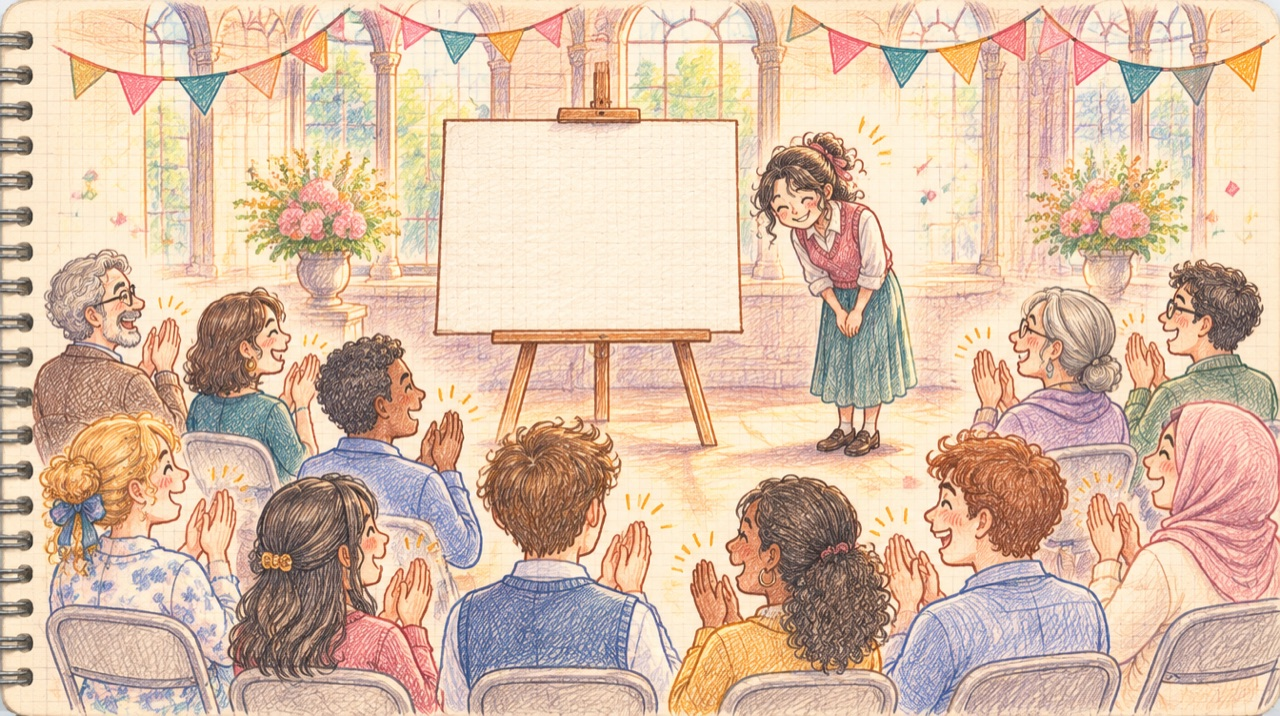
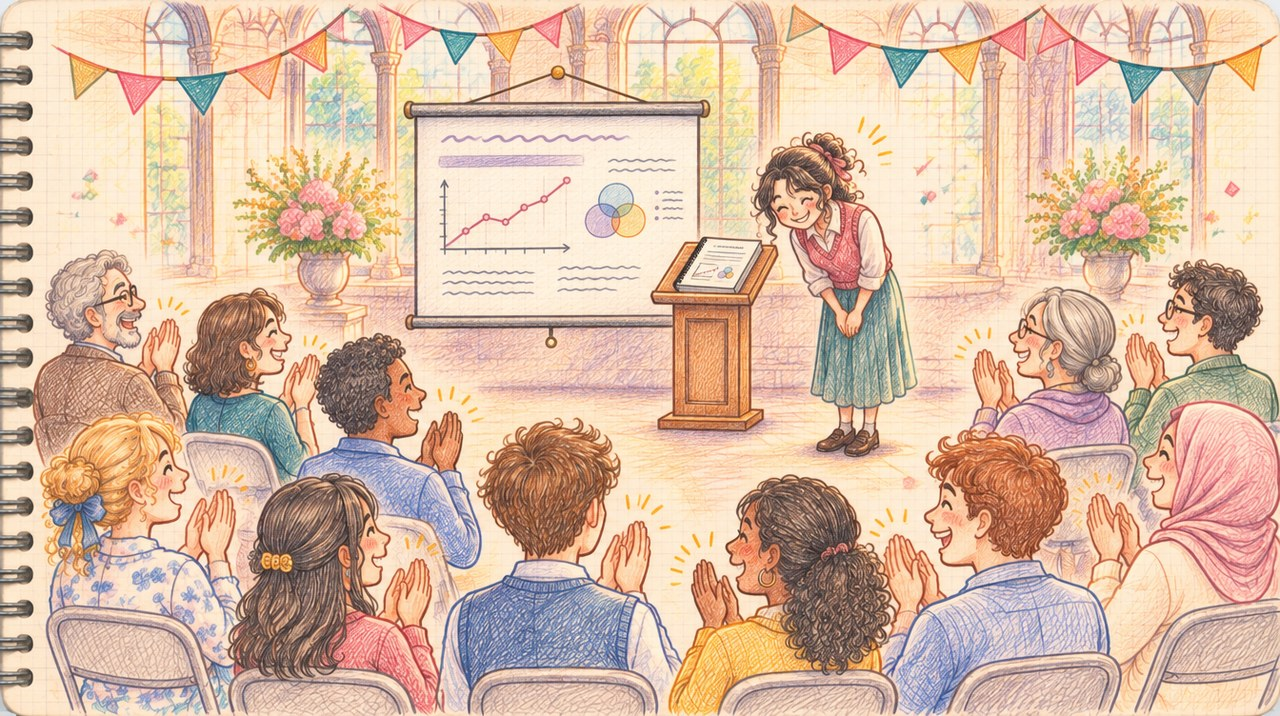
Underway: presentation-day art redrawn (Higgsfield): research talk with lectern, slide and bound paper instead of a poster easel; alt text and cache tag updated
Claude-Session: https://claude.ai/code/session_017jTKBR48qJkEWaoBZhExpA

diff --git a/underway-cee45-006400/play/index.html b/underway-cee45-006400/play/index.html
@@ -261,7 +261,7 @@ function unlock(...ids) { let n = 0; ids.forEach((i) => { if (!archive.has(i)) {
 const ROOM_ART = { classroom: 'art_classroom.jpg', lab: 'art_lab.jpg', hall: 'art_hall.jpg', party: 'art_party.jpg' };
 let artTok = 0;
 function stage({ room, art, alt }) {
-  const src = 'assets/' + (art || ROOM_ART[room]) + '?v=1120';
+  const src = 'assets/' + (art || ROOM_ART[room]) + '?v=1120b';
   const img = $('#art'), under = $('#art2');
   if (img.getAttribute('src') === src) { img.alt = alt || ''; return; }
   const tok = ++artTok;
@@ -288,7 +288,7 @@ const SND = (() => {
   let want = { music: null, amb: null };
   function load(k) {
     if (buf[k] || loading[k] || !ctx) return loading[k];
-    loading[k] = fetch('assets/audio/' + FILES[k] + '.mp3?v=1120').then((r) => r.arrayBuffer())
+    loading[k] = fetch('assets/audio/' + FILES[k] + '.mp3?v=1120b').then((r) => r.arrayBuffer())
       .then((a) => new Promise((ok, no) => ctx.decodeAudioData(a, ok, no))).then((b) => { buf[k] = b; return b; }).catch(() => null);
     return loading[k];
   }
@@ -502,7 +502,7 @@ function failResult(o) {
 }
 function present() {
   const r = S.run;
-  stage({ room: 'hall', alt: 'A sunlit presentation hall: a poster on an easel, a panel of three, and rows of chairs.' });
+  stage({ room: 'hall', alt: 'A sunlit presentation hall: a student gives her research talk beside a lectern and a slide of charts, while a panel of three listens.' });
   page({ scene: 'present', hud: false, eyebrow: 'Presentation Day', title: 'Name your paper', html: '<p>Five weeks of work become a written paper and a talk. Which title is yours?</p>',
     choices: TITLES[r.field].map((t, i) => ({ id: 't' + i, label: t, card: true, fn: () => panel(t) })) });
 }
@@ -520,7 +520,7 @@ function applause(t, pick, strong) {
   const wall = store.get('wall', []); wall.unshift(S.poster); store.set('wall', wall.slice(0, 24));
   const rally = store.get('rally', {}); rally[S.year] = (rally[S.year] || 0) + r.total; store.set('rally', rally);
   const best = store.get('best', null); if (!best || r.total > best.total) store.set('best', { total: r.total, stamps: r.stamps });
-  stage({ art: 'art_applause.jpg', alt: 'Presentation day: a young presenter takes a small bow beside an easel while the audience claps.' });
+  stage({ art: 'art_applause.jpg', alt: 'Presentation day: a young presenter takes a small bow beside a lectern and her slide of charts while the audience claps.' });
   SND.play('applause');
   unlock('rickoids', 'party', 'broad'); if (r.stamps === 5) unlock('roty'); if (r.field === 'bio') unlock('double');
   page({ scene: 'applause', hud: false, eyebrow: 'Presentation Day', title: 'The room applauds.',
